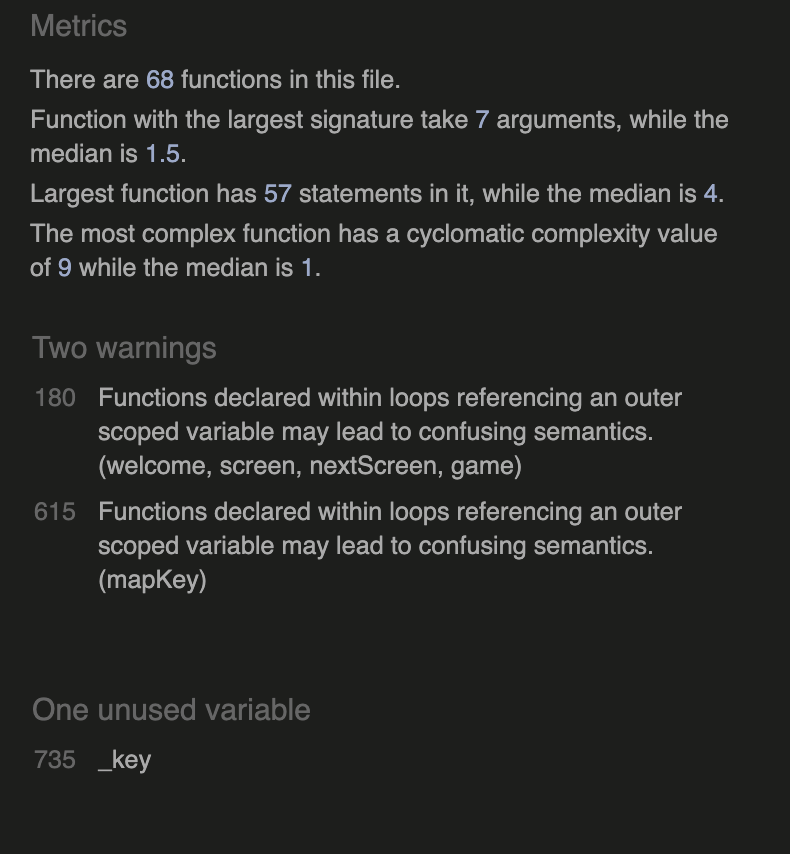
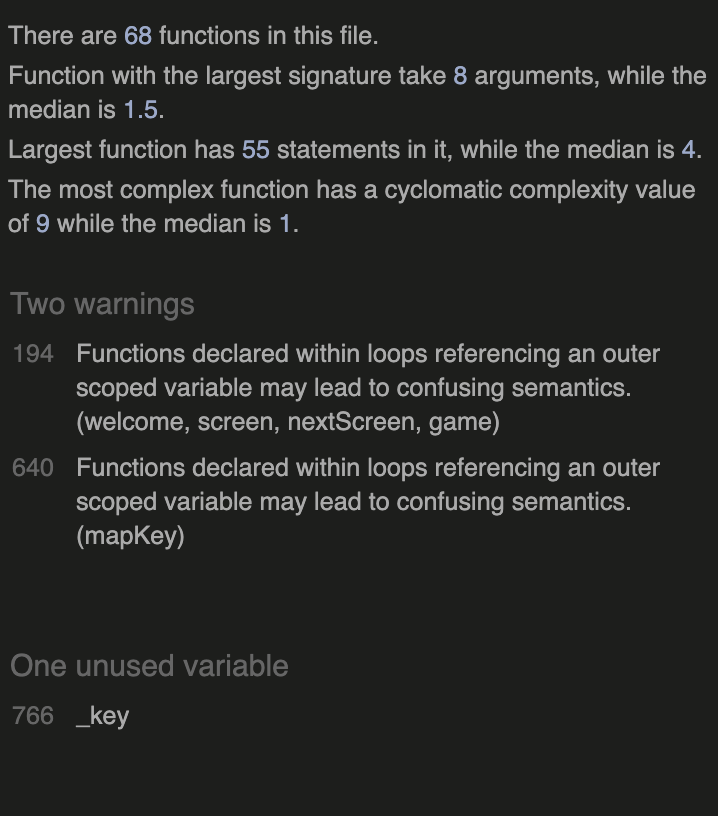
Final Commit Dev Stage 1
Fix Bug: currentTile not defined in harvestForestAction
See Read me

Retest using jshint
make minor corrections
Add updated jshint image to readme

Replay the game and make a couple of parameter corrections.
Update Bug Report
Drink wine.

Changed region(s): [[0.0, 0.0, 0.9805, 0.337], [0.0, 0.337, 0.9192, 0.7047], [0.0, 0.7966, 0.3983, 0.9191]]

diff --git a/assets/js/script.js b/assets/js/script.js
@@ -1,3 +1,14 @@
+// Hello.
+//
+// This is JSHint, a tool that helps to detect errors and potential
+// problems in your JavaScript code.
+//
+// To start, simply enter some JavaScript anywhere on this page. Your
+// report will appear on the right side.
+//
+// Additionally, you can toggle specific options in the Configure
+// menu.
+
 // Wait for the DOM to finish loading before running the Main  wrapper function
 document.addEventListener("DOMContentLoaded", main());
 
@@ -184,7 +195,7 @@ function main() {
         if (this.getAttribute("id") === "nav-quit") { //If Quit is clicked in the welcome() is called and the Welcome Screen is displayed
           welcome(screen, nextScreen);
         } else if (this.getAttribute("id") === "nav-newgame") { //If New Game is clicked in the welcome() is called and the Welcome Screen is displayed
-          game(screen, nextScreen);;
+          game(screen, nextScreen);
         }
       }, {once: true});
     }
@@ -462,8 +473,8 @@ function main() {
             elTile.appendChild(image);/// put image in wrapper in the DOM
             displayCurrentTileActions(currentTileId, gmMap); // displays new current tile actions in the Actions Window
             displayCurrentTileMessages(currentTileId, gmMap); // displays new current tile messages in the Messages Window
-        }
-      }
+        } return currentTile;
+      } 
     }
     let tile = {};
     // Create Array of  Tile Objects
@@ -858,7 +869,7 @@ function main() {
    * @param {*} nextTileId 
    * @param {*} stockProfit 
    */
-  function removeTileEventListeners(adjacentTiles, gmMap, currentTile, currentTileId, nextTileId, stockProfit) {
+  function removeTileEventListeners(adjacentTiles, gmMap, currentTileId, nextTileId, logCampAction, harvestForestAction, stockProfit, currentTile) {
     adjacentTiles.forEach((value) => { // For each of the tiles in the adjacent tile set:
       let elTile = document.getElementById(value.loc); // the Tile id is stored
       elTile.removeEventListener("mouseover", hoverLumberJackie, false); // LumberJackie is displayed 
@@ -917,7 +928,7 @@ function main() {
     let currentTile = gmMap.get(currentTileId); // current tile object is stored
     if (currentTileId !== nextTileId) {
       // remove current event listeners
-      removeTileEventListeners(adjacentTiles, gmMap, currentTile, currentTileId, nextTileId, stockProfit); // current tile event listeners are removed
+      removeTileEventListeners(adjacentTiles, gmMap, currentTileId, nextTileId, logCampAction, harvestForestAction, stockProfit, currentTile); // current tile event listeners are removed
       removeActionEventListeners(gmMap , currentTile, currentTileId, logCampAction, harvestForestAction, stockProfit); // current tile Action event Liteners are removed
       currentTile.currentTileId = false; // current tile status is set to false
       let nextTile = gmMap.get(nextTileId); // next tile object is stored

diff --git a/README.md b/README.md
@@ -385,9 +385,33 @@ The image is then deleted.
 This issue was solved by setting a class attribute of "lumber-jackie-hover" on any created LumberJackie inages. When unHoverLumberKackie was
 fired, a collection of all images with class "lumber-jackie-hover" currently in the DOM. 
 This collection was iterated over and each instace was removed. Also, when hoverLumberJackie was called, a check was made to see if an image with class "lumber-jackie-hover" exists in that elTile. Is so, it was removed from the tile before another was created.
+### currentTile not defined in harvestForestAction
+#### Partially Resolved
+This has sometimes occurred as the game progresses. In chrome devtools, the function can sometimes be see to iterate into the thousands.
+After investigation, it was found that on the first calling of harvestForestAction the value of currentTile was defined on line 343:
+```
+currentTile = currentTile.changeTile(currentTile, currentTileId, gmMap); // changes the forest tile to grass
+```
+but on line 344 it was undefined:
+```
+ displayGameInfo(stockProfit); // Displays updated Game Info
+ ```
+the next line expected to return the value of currentTile but could only return 'undefined'. This caused the error on the subsequent calling of harvestForestAction.
+Stepping into currentTile.changeTile(currentTile, currentTileId, gmMap) it was found that although this function changes the value of currentTile and performed a series of actions with it correctly, currentTile was not returned.
+A return currentTile was added at the end of currentTile.changeTile on line 465 and the problem was reduced!
+A complete play of the game only produced 33 uncaught errors on the first calling of harvstForestActions.
+```
+script.js:353 Uncaught TypeError: currentTile.kind.harvestForest is not a function
+    at harvestForestAction (script.js:353)
+    at HTMLUListElement.elActionsMenuList.addEventListener.once (script.js:820)
 ### Move() is not restricted to tiles adjacent to the current tile
+```
+I am going to attribute this to multple eventListeners which I am unable to remove, call this project finished, and have some wine :)
+### move() not restricted to adjacent tiles
 #### Unresolved
-This is probably caused by the ajacentTiles set not being cleared correctly before being repolpulated after a move().
+Movement should be restricted to adjacent tiles as controled by the adjacentTiles Set.
+This is not caused by the ajacentTiles set not being cleared correctly before being repolpulated after a move().
+It is not known at this time why this occers, but it is suposed that eventListenerers are not being removed correctly.
 
 ## Testing
 ##### [Back to Top](#contents "Contents")
